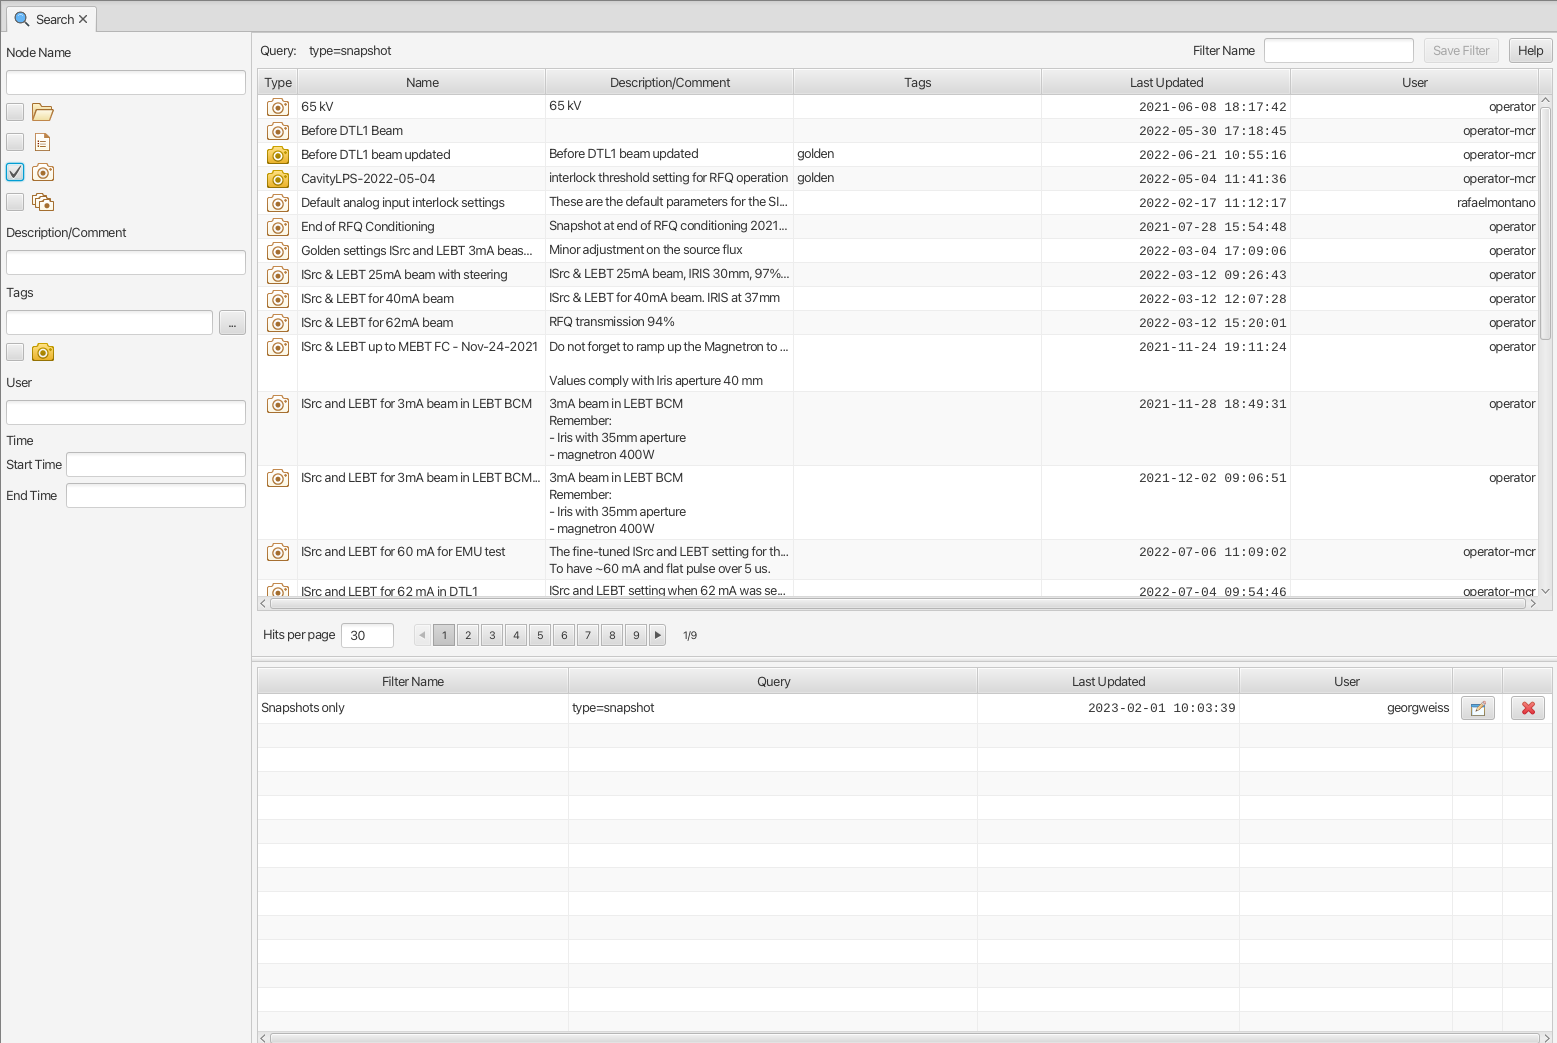
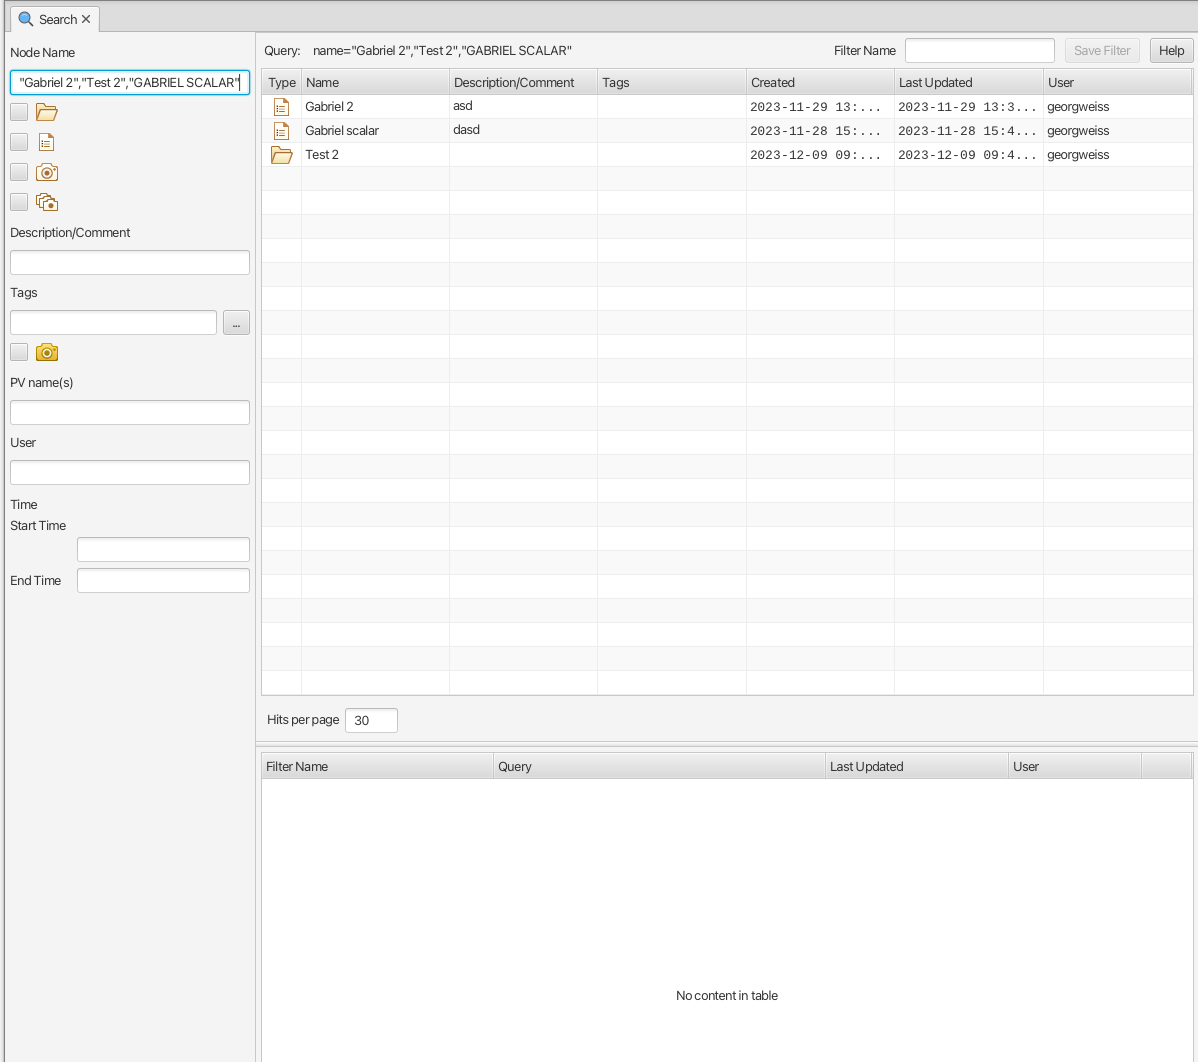
Support for phrase search on name in save&restore, updated documentation

diff --git a/services/save-and-restore/src/main/resources/static/SearchHelp_en.html b/services/save-and-restore/src/main/resources/static/SearchHelp_en.html
@@ -66,6 +66,10 @@
     <h3>name</h3>
     A search for nodes by name will match on the name as specified by the user when the node was created or updated.
     The value for this key is <b>case insensitive</b>.
+    <p>
+    The space character along with other &quot;special&quot; characters is used by the underlying search engine to tokenize
+        text when it is indexed. Consequently, a search for a name that includes a space character must be quoted.
+    </p>
 
     <h3>user</h3>
     This is the username associated with a node when it was saved. The value for this key is <b>case insensitive</b>.
@@ -98,6 +102,11 @@
     To match a sub-string of a tag name or comment, one must use wildcards. For instance, to find nodes tagged with a tag named <code>Beam60mA</code>,
     <code>tags=Beam*</code> will work, while <code>tags=Beam</code> will not.
     </p>
+
+    <h3>PV name(s)</h3>
+    This is used to perform a search for configuration nodes containing the specified node name(s). The input
+    field is backed by the PV name completion mechanism used in other parts of the application, i.e. a list of
+    PV names - supplied by the Channel Finder service - is shown as user types in the input field.
 
     <h3>Combining keys</h3>
     If multiple keys are used in a search query, the service will consider all (valid) keys and return nodes

diff --git a/services/save-and-restore/src/main/java/org/phoebus/service/saveandrestore/search/SearchUtil.java b/services/save-and-restore/src/main/java/org/phoebus/service/saveandrestore/search/SearchUtil.java
@@ -18,6 +18,7 @@ import java.time.ZonedDateTime;
 import java.time.format.DateTimeFormatter;
 import java.util.*;
 import java.util.Map.Entry;
+import java.util.stream.Collectors;
 
 /**
  * A utility class for creating a search query for log entries based on time,
@@ -52,6 +53,7 @@ public class SearchUtil {
         boolean fuzzySearch = false;
         List<String> descriptionTerms = new ArrayList<>();
         List<String> nodeNameTerms = new ArrayList<>();
+        List<String> nodeNamePhraseTerms = new ArrayList<>();
         List<String> nodeTypeTerms = new ArrayList<>();
         List<String> uniqueIdTerms = new ArrayList<>();
         boolean temporalSearch = false;
@@ -73,7 +75,13 @@ public class SearchUtil {
                 case "name":
                     for (String value : parameter.getValue()) {
                         for (String pattern : value.split("[|,;]")) {
-                            nodeNameTerms.add(pattern.trim().toLowerCase());
+                            String term = pattern.trim().toLowerCase();
+                            if(term.startsWith("\"") && term.endsWith("\"")){
+                                nodeNamePhraseTerms.add(term.substring(1, term.length() - 1));
+                            }
+                            else{
+                                nodeNameTerms.add(term);
+                            }
                         }
                     }
                     break;
@@ -255,6 +263,19 @@ public class SearchUtil {
             }
             nodeNameQuery.queries(nodeNameQueries);
             boolQueryBuilder.must(nodeNameQuery.build()._toQuery());
+        }
+
+        if(!nodeNamePhraseTerms.isEmpty()){
+            DisMaxQuery.Builder nodeNamePhraseQueryBuilder = new DisMaxQuery.Builder();
+            List<NestedQuery> nestedQueries = new ArrayList<>();
+            nodeNamePhraseTerms.forEach(phraseSearchTerm -> {
+                NestedQuery innerNestedQuery;
+                MatchPhraseQuery matchPhraseQuery = MatchPhraseQuery.of(m -> m.field("node.name").query(phraseSearchTerm));
+                innerNestedQuery = NestedQuery.of(n -> n.path("node").query(matchPhraseQuery._toQuery()));
+                nestedQueries.add(innerNestedQuery);
+            });
+            nodeNamePhraseQueryBuilder.queries(nestedQueries.stream().map(QueryVariant::_toQuery).collect(Collectors.toList()));
+            boolQueryBuilder.must(nodeNamePhraseQueryBuilder.build()._toQuery());
         }
 
         // Add node type query. Fuzzy search not needed as node types are well-defined and limited in number.
